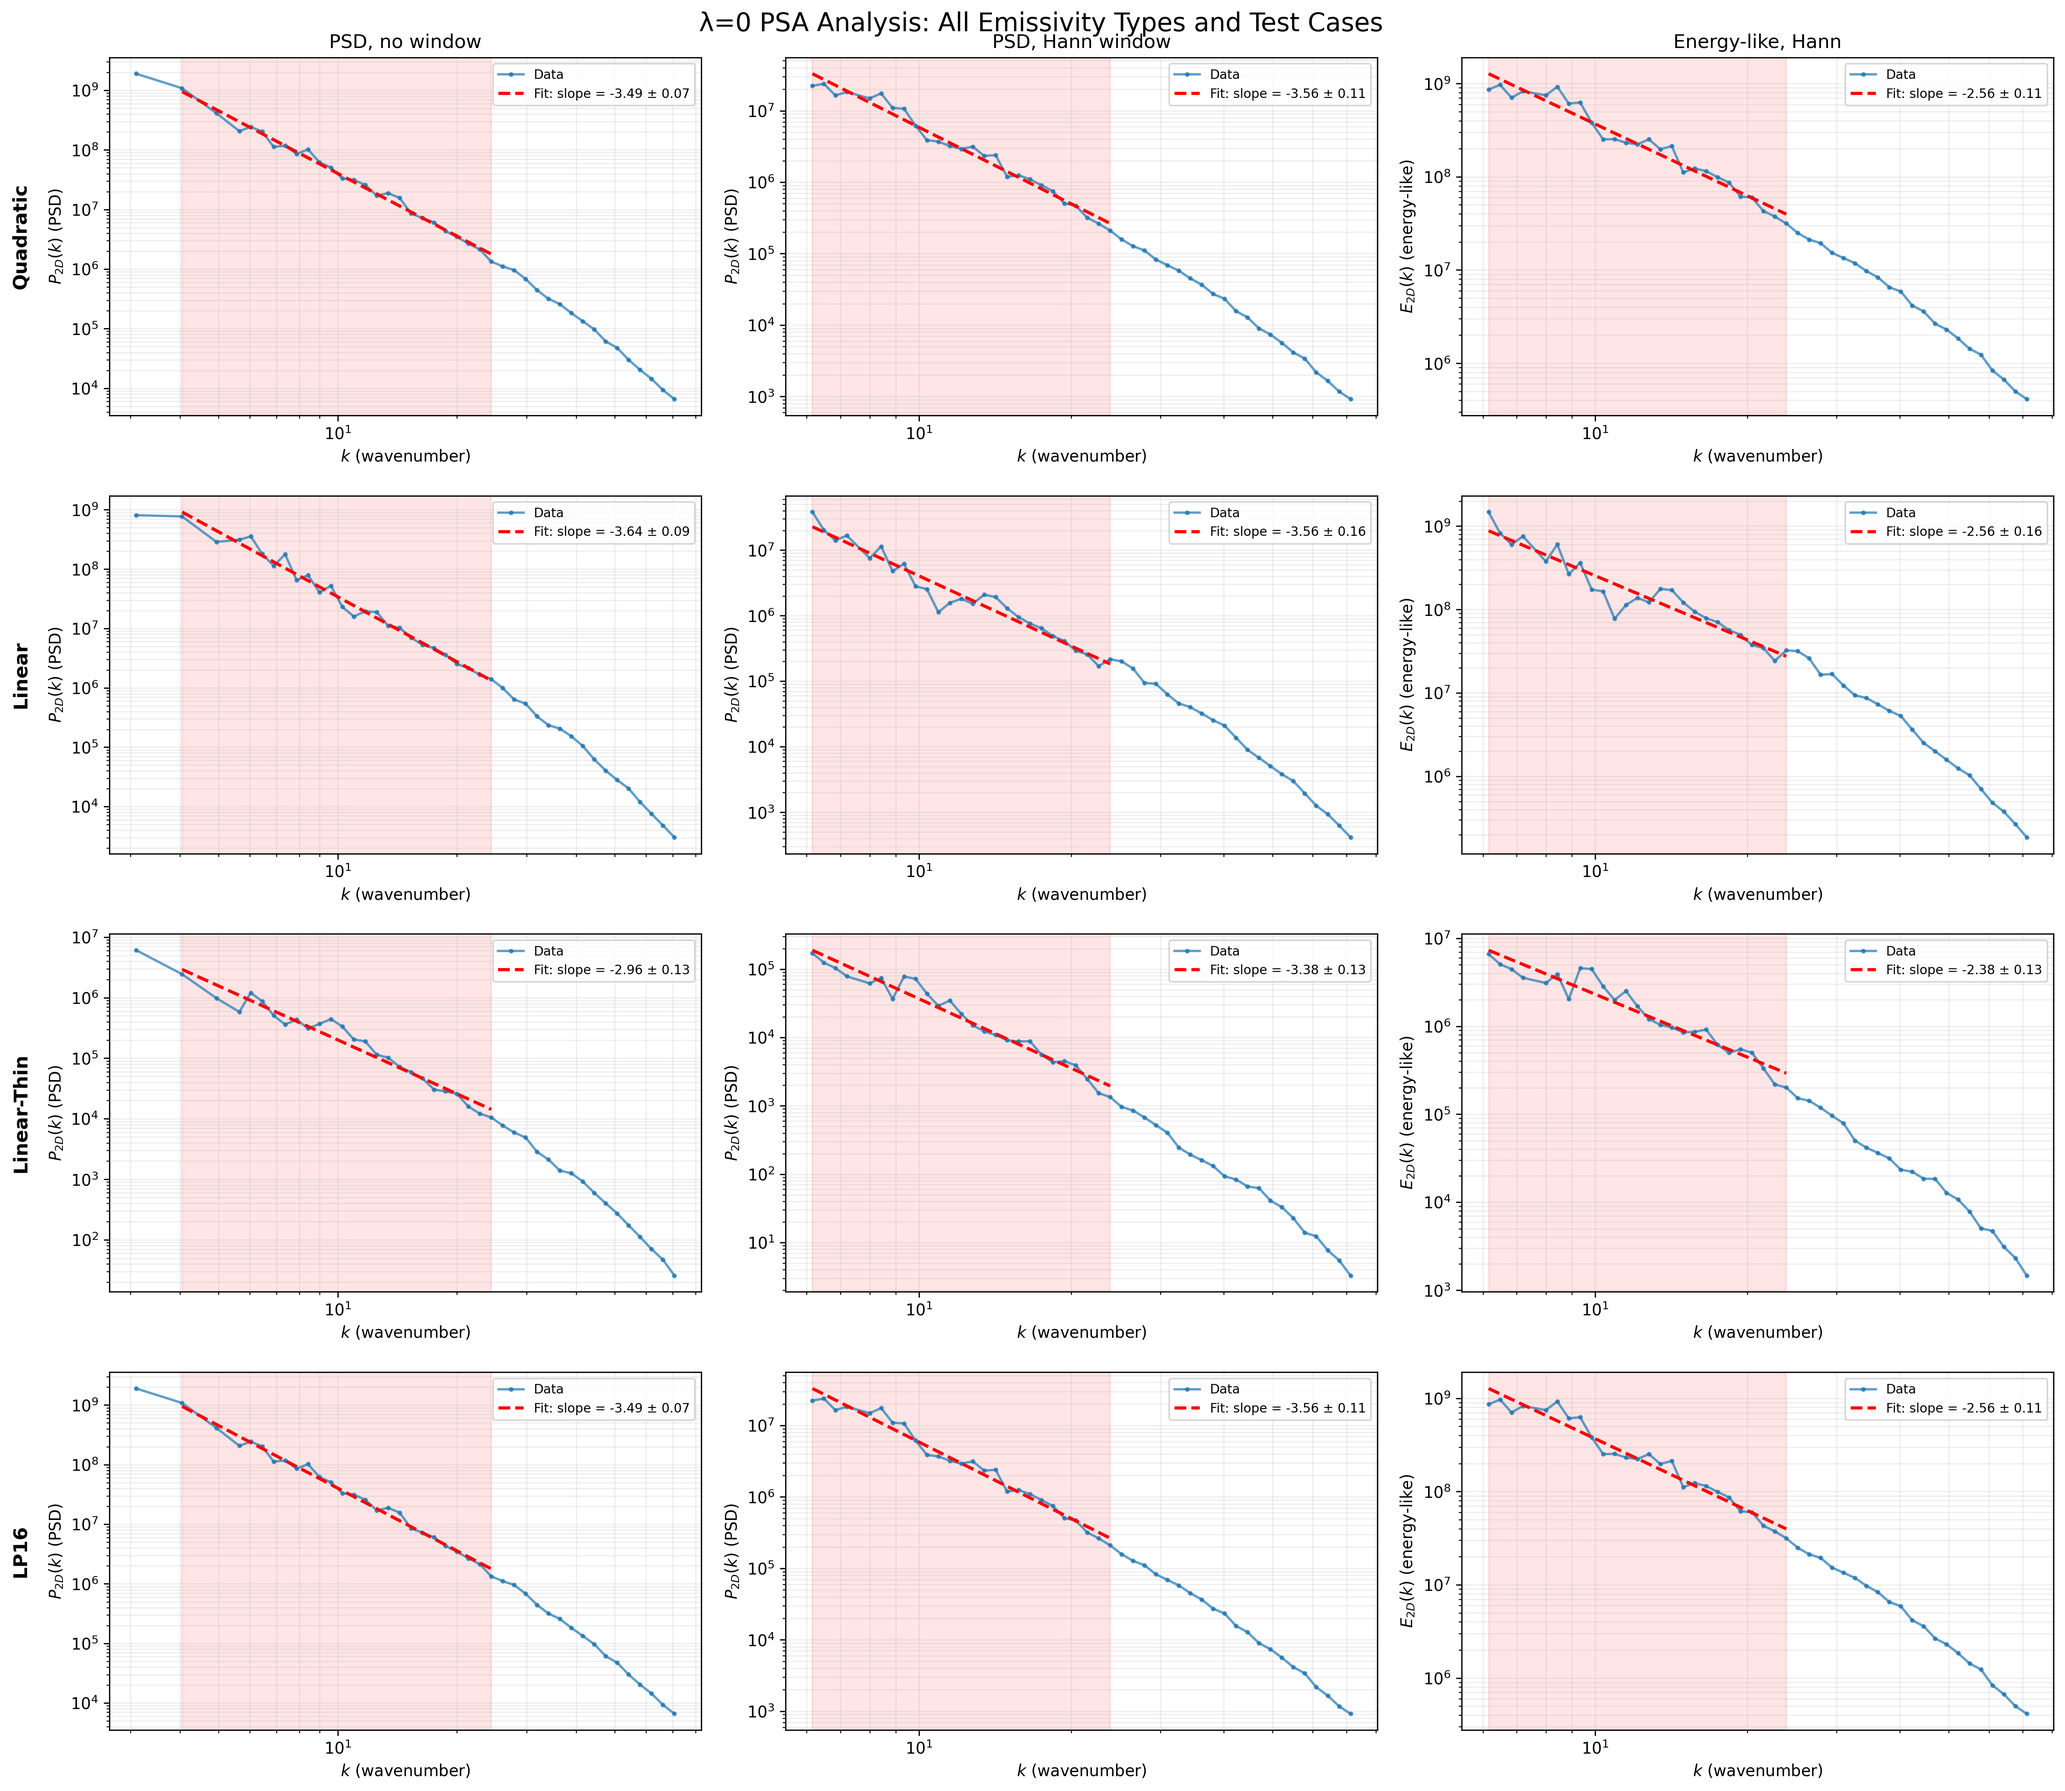
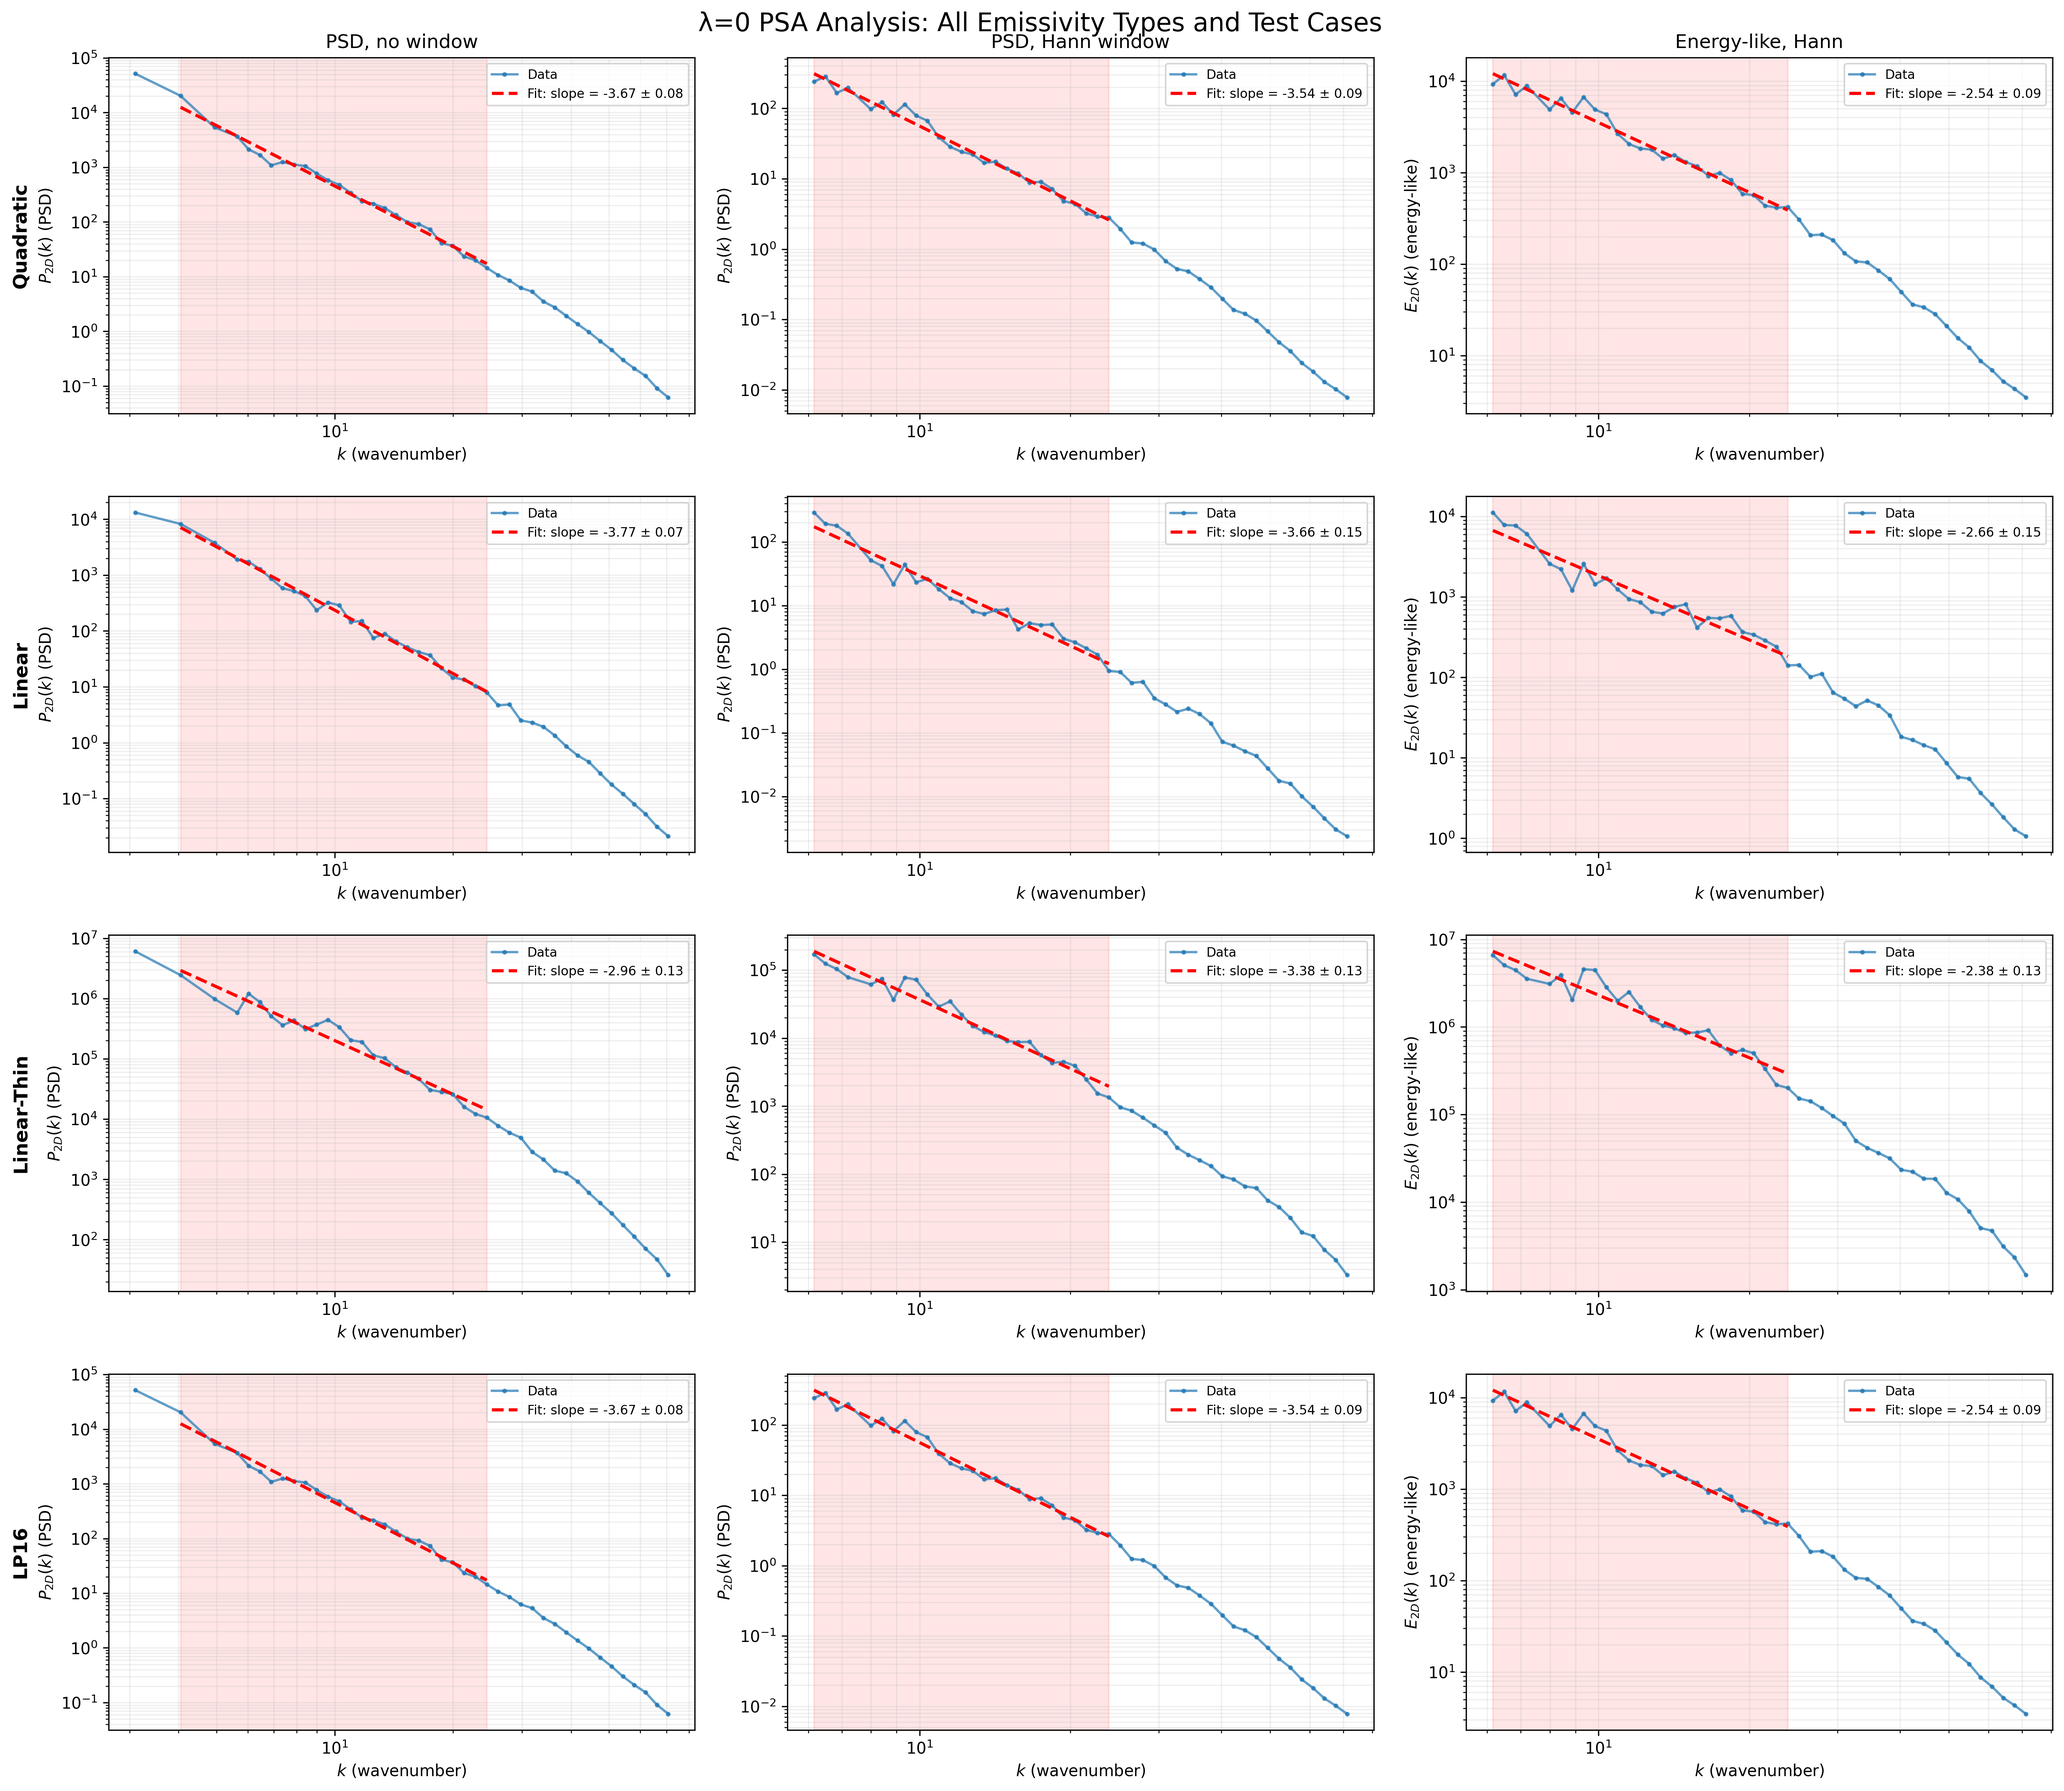
Correct B_parallel mapping in spatial PSA comparison, add sanity checks for slope diagnostics, and update Faraday density calculations. Adjust voxel depth handling for consistency across methods.

diff --git a/compare_measures/pfa_and_derivative_lp_16_like.py b/compare_measures/pfa_and_derivative_lp_16_like.py
@@ -52,8 +52,10 @@ class PFAConfig:
     lam_mark: float = 1.0
     gamma: float = 2.0            # electron index → P_i ∝ (B_⊥)^{(γ+1)/2}
     faraday_const: float = 0.81    # arbitrary units here; relative scaling only
-    los_axis: int = 0              # integrate along this axis
-    voxel_depth: float = 1.0       # Δz in code units
+    los_axis: int = 2              # integrate along this axis (z is LOS by default)
+    voxel_depth: float = 1.0       # unused after Patch 1; retained for backward compat
+    lam2_break_target: float = 1e-1  # place χ≈1 near this λ² (matches Zhang fig)
+    use_auto_faraday: bool = True
 
 
 class FieldKeys:
@@ -365,10 +367,11 @@ def P_map_separated(Pi: np.ndarray, phi: np.ndarray, lam: float, cfg: PFAConfig,
     Pi_los = _move_los(Pi, cfg.los_axis)
     phi_los = _move_los(phi, cfg.los_axis)
     Nz = Pi_los.shape[0]
+    dz = 1.0 / float(Nz)   
     e0 = emit_bounds or (0, max(1, int(0.9 * Nz)))
     s0 = screen_bounds or (max(0, e0[1]), Nz)
-    P_emit = np.sum(Pi_los[e0[0]:e0[1], :, :], axis=0) * cfg.voxel_depth
-    Phi_screen = np.sum(phi_los[s0[0]:s0[1], :, :], axis=0) * cfg.voxel_depth
+    P_emit = np.sum(Pi_los[e0[0]:e0[1], :, :], axis=0) * dz
+    Phi_screen = np.sum(phi_los[s0[0]:s0[1], :, :], axis=0) * dz
     return P_emit * np.exp(2j * (lam**2) * Phi_screen)
 
 
@@ -378,9 +381,10 @@ def P_map_mixed(Pi: np.ndarray, phi: np.ndarray, lam: float, cfg: PFAConfig,
     phi_los = _move_los(phi, cfg.los_axis)
     Nz = Pi_los.shape[0]
     z0, z1 = bounds or (0, Nz)
-    Phi_cum = np.cumsum(phi_los[z0:z1, :, :] * cfg.voxel_depth, axis=0)
+    dz = 1.0 / float(Nz)   
+    Phi_cum = np.cumsum(phi_los[z0:z1, :, :] * dz, axis=0)
     phase = np.exp(2j * (lam**2) * Phi_cum)
-    return np.sum(Pi_los[z0:z1, :, :] * phase, axis=0) * cfg.voxel_depth
+    return np.sum(Pi_los[z0:z1, :, :] * phase, axis=0) * dz
 
 
 def dP_map_separated(Pi: np.ndarray, phi: np.ndarray, lam: float, cfg: PFAConfig,
@@ -390,8 +394,9 @@ def dP_map_separated(Pi: np.ndarray, phi: np.ndarray, lam: float, cfg: PFAConfig
     P = P_map_separated(Pi, phi, lam, cfg, emit_bounds=emit_bounds, screen_bounds=screen_bounds)
     phi_los = _move_los(phi, cfg.los_axis)
     Nz = phi_los.shape[0]
+    dz = 1.0 / float(Nz)
     s0 = screen_bounds or (max(0, int(0.9 * Nz)), Nz)
-    Phi_screen = np.sum(phi_los[s0[0]:s0[1], :, :], axis=0) * cfg.voxel_depth
+    Phi_screen = np.sum(phi_los[s0[0]:s0[1], :, :], axis=0) * dz
     return 2j * Phi_screen * P
 
 
@@ -402,10 +407,11 @@ def dP_map_mixed(Pi: np.ndarray, phi: np.ndarray, lam: float, cfg: PFAConfig,
     phi_los = _move_los(phi, cfg.los_axis)
     Nz = Pi_los.shape[0]
     z0, z1 = bounds or (0, Nz)
-    Phi_cum = np.cumsum(phi_los[z0:z1, :, :] * cfg.voxel_depth, axis=0)
+    dz = 1.0 / float(Nz)
+    Phi_cum = np.cumsum(phi_los[z0:z1, :, :] * dz, axis=0)
     phase = np.exp(2j * (lam**2) * Phi_cum)
     contrib = 2j * (Pi_los[z0:z1, :, :] * Phi_cum) * phase
-    return np.sum(contrib, axis=0) * cfg.voxel_depth
+    return np.sum(contrib, axis=0) * dz
 
 # -----------------------------
 # Multiprocessing helper functions
@@ -1014,6 +1020,9 @@ def plot_three_measures_vs_lambda(lam2_pfa: np.ndarray,
         ref = np.nanmax([y_pfa[0], 1e-300]) if np.isfinite(y_pfa[0]) else np.nanmax([np.nanmin(y_pfa), 1e-300])
         y_pfa = y_pfa / ref
     y_pfa_plot = np.log10(y_pfa)
+    
+    # Compute χ(λ) for annotation
+    chi = 2.0 * lam_arr_psa**2 * sigma_phi
 
     fig, (ax1, ax2) = plt.subplots(2, 1, figsize=(8.0, 8.0), sharex=True)
 
@@ -1042,6 +1051,13 @@ def plot_three_measures_vs_lambda(lam2_pfa: np.ndarray,
     ax2.set_xlabel(r'$2\sigma_\phi \lambda^2$')
     ax2.grid(True, which='both', alpha=0.25)
     ax2.legend(frameon=False, loc='best')
+    
+    # Add χ(λ) annotation on secondary y-axis
+    ax2_twin = ax2.twinx()
+    ax2_twin.semilogx(x_psa, chi, alpha=0.25, color='gray', linestyle='--')
+    ax2_twin.axhline(1.0, ls=':', lw=0.8, color='k', alpha=0.7)
+    ax2_twin.set_ylabel(r'$\chi(\lambda)=2\,\lambda^2\sigma_\Phi$', color='gray')
+    ax2_twin.tick_params(axis='y', labelcolor='gray')
 
     ax1.set_title(title)
     fig.tight_layout()
@@ -1144,20 +1160,39 @@ def run(h5_path: str, force_random_dominated: bool = False, decorrelate: bool = 
     Bx, By, Bz, ne = load_fields(h5_path, keys)
     Pi = polarized_emissivity(Bx, By, gamma=cfg.gamma)
     
-    # Choose B_parallel based on cfg.los_axis
+    # Choose B_parallel based on cfg.los_axis (corrected mapping)
     if cfg.los_axis == 0:
-        Bpar = Bz
+        Bpar = Bx
     elif cfg.los_axis == 1:
         Bpar = By
     else:
-        Bpar = Bx
+        Bpar = Bz
     
     # Option to force random-dominated regime
     if force_random_dominated:
         print("\n⚠ FORCING RANDOM-DOMINATED REGIME (subtracting mean B_∥)")
         Bpar = Bpar - Bpar.mean()
     
-    phi = faraday_density(ne, Bpar, C=cfg.faraday_const)
+    # provisional φ with C=1 for measuring σ_Φ
+    phi = faraday_density(ne, Bpar, C=1.0)
+
+    if cfg.use_auto_faraday:
+        # integrate φ along LOS to get total Φ per LOS (Ny×Nx map), using Δz=1/Nz
+        Nz = Bx.shape[cfg.los_axis]
+        dz = 1.0 / float(Nz)
+        Phi_tot = np.sum(np.moveaxis(phi, cfg.los_axis, 0), axis=0) * dz
+        sigma_Phi = float(Phi_tot.std())
+        # choose C so that χ(λ)=2 λ² σ_Φ ≈ 1 at λ² = lam2_break_target
+        if sigma_Phi > 0:
+            C = 1.0 / (max(cfg.lam2_break_target, 1e-30) * sigma_Phi)
+        else:
+            C = 1.0
+        phi *= C
+        print(f"[PFA] σΦ={sigma_Phi:.3g}, C={C:.3g}")
+    else:
+        # fallback: honor user-specified constant
+        phi *= cfg.faraday_const
+    
     # Diagnose regime on the *native* φ (so r_i is physical)
     phi_info = compute_faraday_regime(phi, verbose=True)
     

diff --git a/run_spatial_psa_comparison.py b/run_spatial_psa_comparison.py
@@ -62,13 +62,13 @@ def load_real_data():
     # Compute polarization emissivity
     Pi = polarized_emissivity_simple(Bx, By, gamma=cfg.gamma)
     
-    # Choose B_parallel based on cfg.los_axis
+    # Choose B_parallel based on cfg.los_axis (corrected mapping)
     if cfg.los_axis == 0:
-        Bpar = Bz
+        Bpar = Bx
     elif cfg.los_axis == 1:
         Bpar = By
     else:
-        Bpar = Bx
+        Bpar = Bz
     
     # Compute Faraday density
     phi = faraday_density(ne, Bpar, C=cfg.faraday_const)
@@ -93,6 +93,14 @@ def load_real_data():
                              k_min=3.0, min_counts_per_ring=10, return_energy_like=False)
     
     print(f"Generated PSA data: {len(k_P)} points for P, {len(k_dP)} points for dP/dλ²")
+    
+    # Sanity check: verify slopes match diagnostics expectations
+    print(f"\n[Sanity] Using PSD + Hann, k∈[4,25] like diagnostics")
+    mP, aP, eP, _ = fit_log_slope_with_bounds(k_P, Ek_P, kmin=4, kmax=25)
+    mD, aD, eD, _ = fit_log_slope_with_bounds(k_dP, Ek_dP, kmin=4, kmax=25)
+    print(f"  P  slope = {mP:.2f} ± {eP:.2f}")
+    print(f"  dP slope = {mD:.2f} ± {eD:.2f}")
+    print(f"  Expected: ~-3.5 for PSD (should match diagnostics)")
     
     return k_P, Ek_P, k_dP, Ek_dP
 
@@ -273,13 +281,13 @@ def main():
     # Compute polarization emissivity
     Pi = polarized_emissivity_simple(Bx, By, gamma=cfg.gamma)
     
-    # Choose B_parallel based on cfg.los_axis
+    # Choose B_parallel based on cfg.los_axis (corrected mapping)
     if cfg.los_axis == 0:
-        Bpar = Bz
+        Bpar = Bx
     elif cfg.los_axis == 1:
         Bpar = By
     else:
-        Bpar = Bx
+        Bpar = Bz
     
     # Compute Faraday density
     phi = faraday_density(ne, Bpar, C=cfg.faraday_const)
